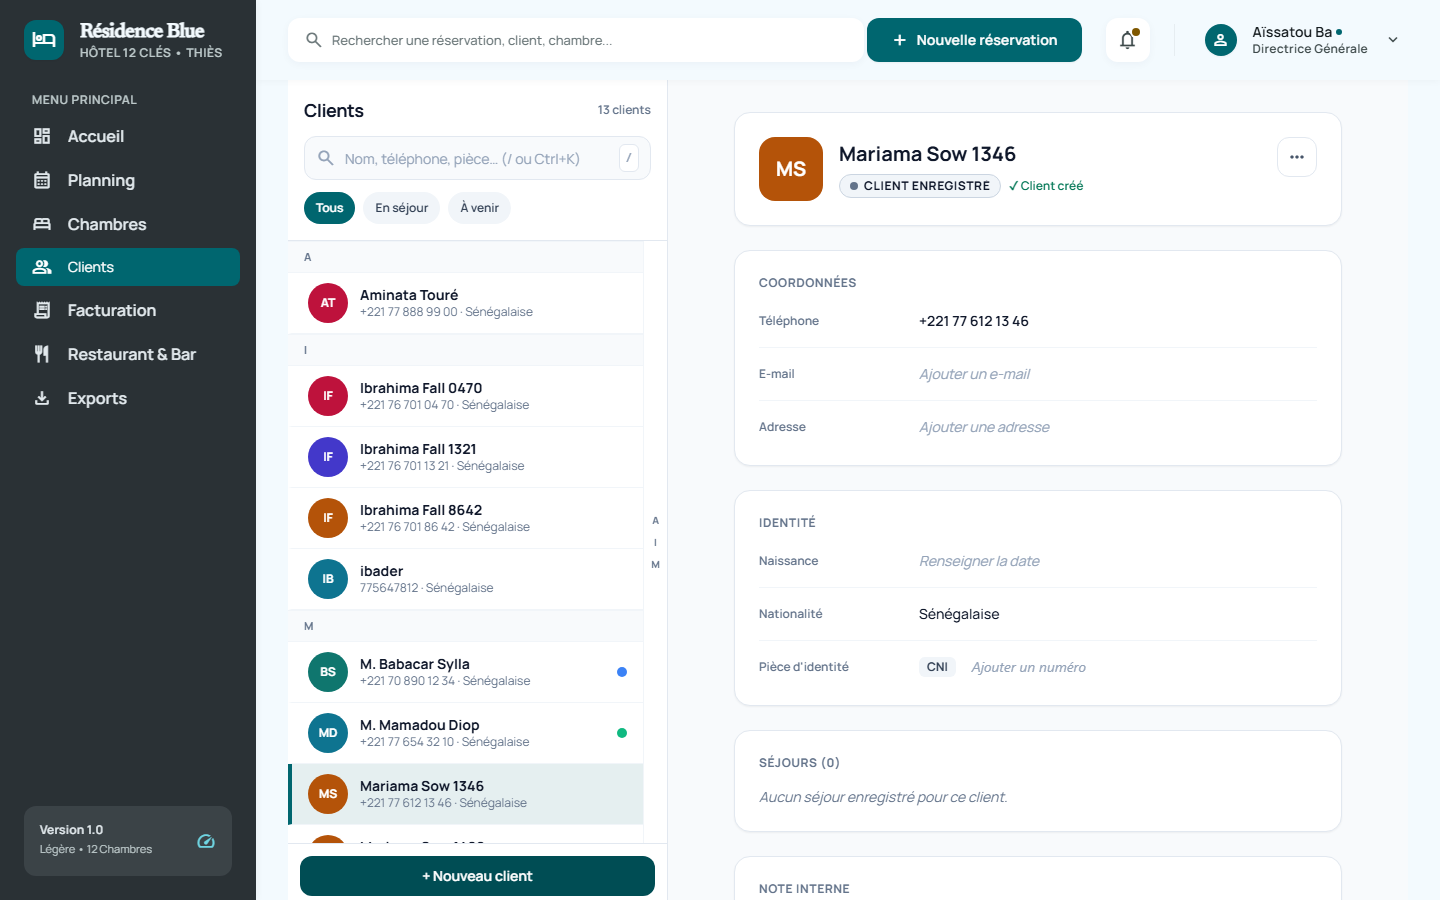
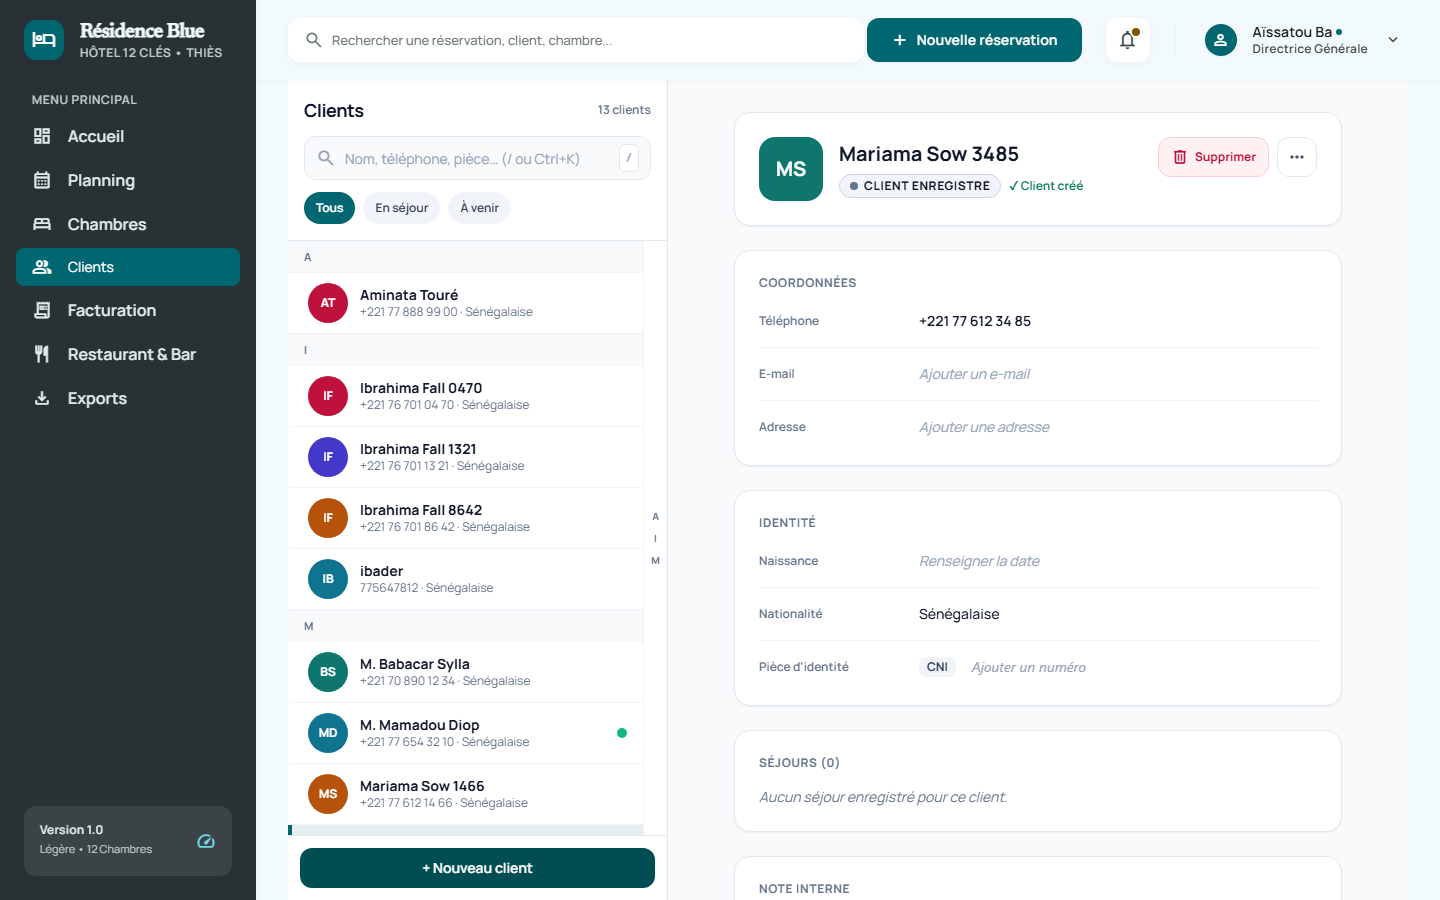
fix(clients): corriger le scroll vertical et afficher le bouton Supprimer

diff --git a/apps/web/src/app/features/clients/clients-page.component.ts b/apps/web/src/app/features/clients/clients-page.component.ts
@@ -69,12 +69,12 @@ const SENEGAL_PHONE_RE =
   ],
   template: `
     <div
-      class="flex flex-col h-[calc(100vh-4.5rem)] w-full max-w-full overflow-hidden bg-[#f8fafc] font-['Manrope',sans-serif]"
+      class="flex flex-col h-[calc(100dvh-5rem)] w-full max-w-full overflow-hidden bg-[#f8fafc] font-['Manrope',sans-serif]"
       data-testid="clients-v2-root"
     >
       <!-- Grille principale : 2 colonnes >= 900px, 1 colonne plein écran < 900px -->
       <div
-        class="flex-1 min-h-0 w-full min-[900px]:grid min-[900px]:grid-cols-[380px_minmax(0,1fr)]"
+        class="flex-1 min-h-0 h-full w-full min-[900px]:grid min-[900px]:grid-cols-[380px_minmax(0,1fr)] min-[900px]:grid-rows-[minmax(0,1fr)]"
       >
         <!-- COLONNE GAUCHE : ANNUAIRE -->
         <aside
@@ -540,8 +540,22 @@ const SENEGAL_PHONE_RE =
                     </div>
                   </div>
 
-                  <!-- Menu ⋯ -->
+                  <!-- Actions : Supprimer (DIRECTION) + Menu ⋯ -->
                   <div class="flex items-center gap-2 shrink-0">
+                    @if (isDirection()) {
+                      <button
+                        type="button"
+                        (click)="openDeleteBox(guest)"
+                        data-testid="header-delete-btn"
+                        class="h-10 px-3 rounded-xl border border-rose-200 bg-rose-50 text-rose-700 text-xs font-bold hover:bg-rose-100 inline-flex items-center gap-1.5 focus:outline-none focus:ring-2 focus:ring-rose-500"
+                      >
+                        <span class="material-symbols-outlined text-[18px]" aria-hidden="true">
+                          delete
+                        </span>
+                        Supprimer
+                      </button>
+                    }
+
                     <div class="relative">
                       <button
                         type="button"
